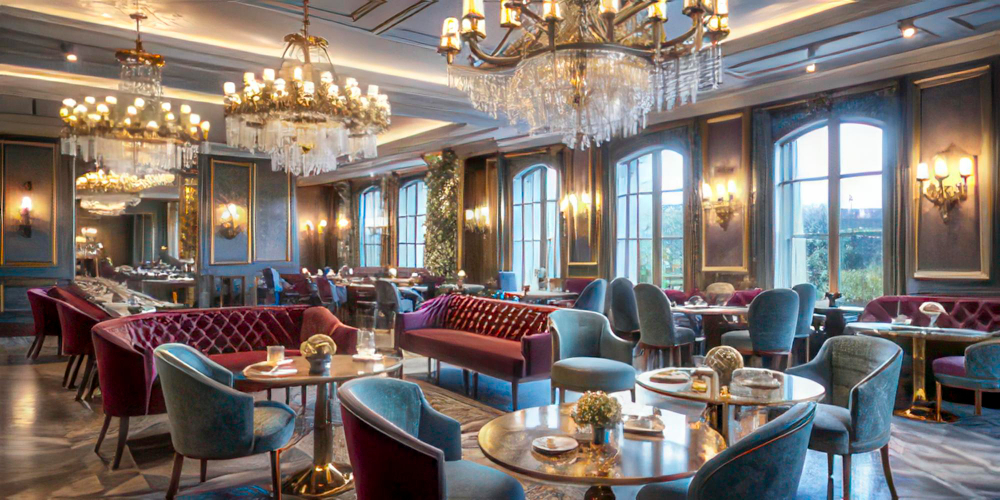
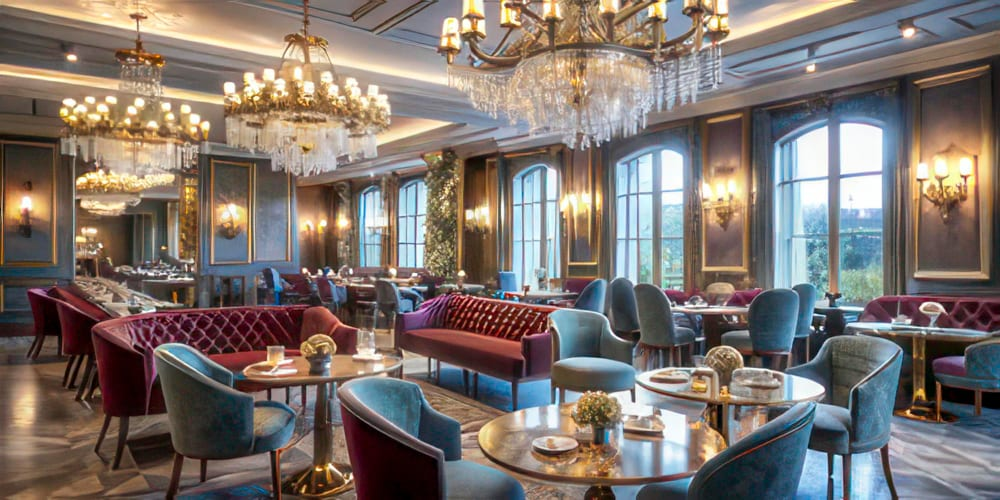
Add the Sustainability page and cut image weight by 92%
Sustainability is the statement band plus its full-width photo.

The bigger change is asset weight. Figma's image fills are the original
uploads, and several were 4096px wide feeding tiles that render at 402px --
public/images had reached 137MB, worse than the 57MB of dead files removed
earlier. Adds sharp as a dev dependency and re-encodes every raster: longest
edge capped at 1920 (double our largest render), JPEG at quality 82 via
mozjpeg, PNG recompressed.

  135.5MB -> 11.6MB across 24 files

hero-interior was a 1.9MB PNG holding a photograph with no transparency, so
it becomes a 138KB JPEG. The product and footer chair PNGs keep their format
-- those cutouts genuinely use alpha.

No visible quality loss: sources were being downsampled by the browser
anyway. Verified every route at 430 and 1920 -- no overflow, no broken
images, no 4xx.

diff --git a/src/app/sustainability/page.tsx b/src/app/sustainability/page.tsx
@@ -1,0 +1,38 @@
+import type { Metadata } from "next";
+import Image from "next/image";
+import Container from "@/components/ui/Container";
+import PageHero from "@/components/ui/PageHero";
+
+const STATEMENT =
+  "At Gary Platt we believe that comfort and responsibility go hand in hand. As a leading manufacturer of casino and hospitality chairs, we are committed to sustainability at every stage of our production process. We prioritize eco-friendly materials, utilizing responsibly sourced wood and recycled fabrics to minimize our environmental footprint. Our manufacturing practices focus on reducing waste and energy consumption, ensuring that our products not only provide exceptional comfort but also contribute to a healthier planet. By choosing Gary Platt, you are investing in quality and sustainability, creating spaces that are as kind to the environment as they are inviting to your guests.";
+
+export const metadata: Metadata = {
+  title: "Sustainability",
+  description:
+    "Eco-friendly materials, responsibly sourced wood and recycled fabrics — sustainability at every stage of production.",
+};
+
+export default function SustainabilityPage() {
+  return (
+    <>
+      <PageHero title="Sustainability" />
+
+      <Container className="pb-section">
+        <p className="text-[clamp(1rem,0.7vw+0.85rem,1.5rem)] leading-relaxed text-ink">
+          {STATEMENT}
+        </p>
+
+        <div className="relative mt-10 aspect-[1680/2174] w-full overflow-hidden">
+          <Image
+            src="/images/sustainability-hero.jpg"
+            alt="Gary Platt sustainability practices across materials and manufacturing"
+            width={1680}
+            height={2174}
+            sizes="100vw"
+            className="size-full object-cover"
+          />
+        </div>
+      </Container>
+    </>
+  );
+}

diff --git a/src/components/sections/Hero.tsx b/src/components/sections/Hero.tsx
@@ -16,7 +16,7 @@ export default function Hero() {
       {/* --- Photo --- */}
       <div className="relative order-3 mt-8 h-[clamp(15rem,64vw,17.375rem)] w-full md:absolute md:inset-0 md:mt-0 md:h-auto md:overflow-hidden">
         <Image
-          src="/images/hero-interior.png"
+          src="/images/hero-interior.jpg"
           alt="Luxury interior with a dark modular sofa and brass pendant lights"
           width={1920}
           height={1104}
@@ -31,7 +31,7 @@ export default function Hero() {
           <div className="relative aspect-[288/384] overflow-hidden rounded-sm border-[2.688px] border-white p-[2.688px] shadow-[0_5.599px_11.198px_-2.688px_rgba(0,0,0,0.25)]">
             <div className="relative size-full overflow-hidden">
               <Image
-                src="/images/hero-interior.png"
+                src="/images/hero-interior.jpg"
                 alt=""
                 width={301}
                 height={165}
@@ -132,7 +132,7 @@ export default function Hero() {
         <div className="relative aspect-[288/384] overflow-hidden rounded-lg border-[0.625vw] border-white p-[0.625vw] shadow-[0_25px_50px_-12px_rgba(0,0,0,0.25)]">
           <div className="relative size-full overflow-hidden">
             <Image
-              src="/images/hero-interior.png"
+              src="/images/hero-interior.jpg"
               alt=""
               width={1120}
               height={644}
